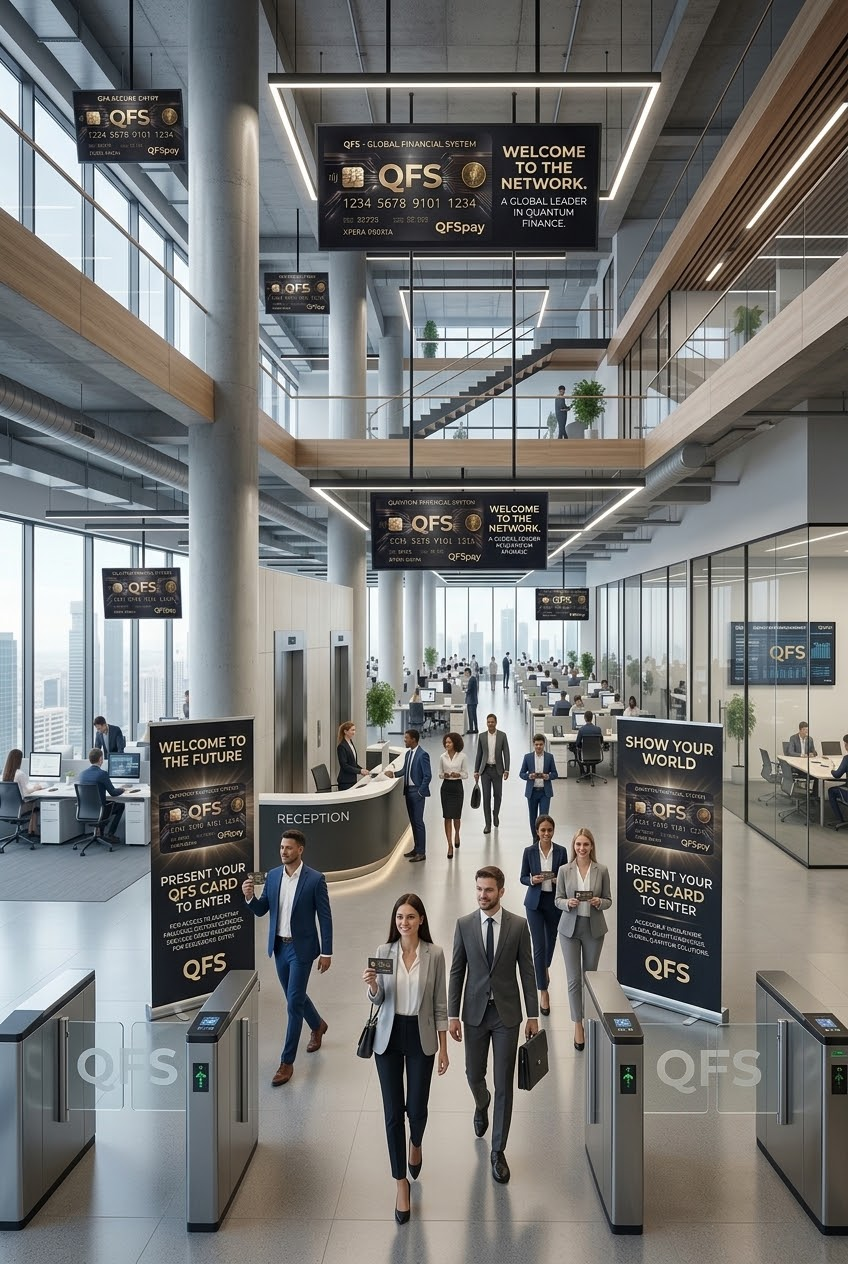
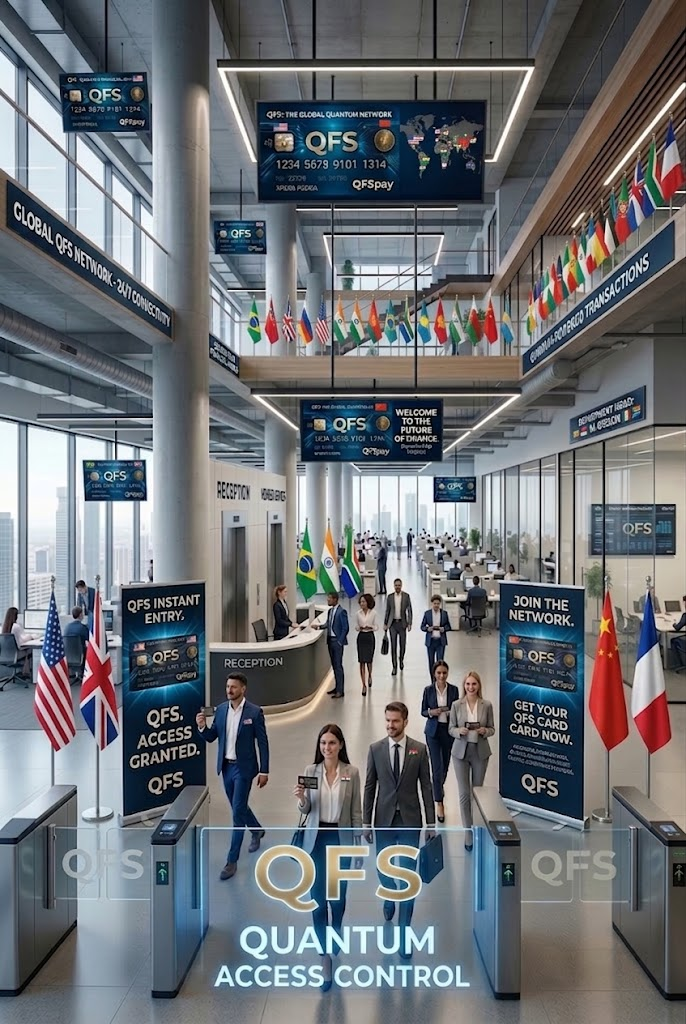
0c419a92-ae82-42db-931a-e7b1c20d3198

diff --git a/src/store/lang-store.ts b/src/store/lang-store.ts
@@ -164,14 +164,14 @@ const t: Record<string, Record<Lang, string>> = {
   "alliance.msg.body": { en: "The strategic integration of QFS with GCRM represents a paradigm shift in digital finance. This alliance unifies quantum-secured transactions with intelligent customer relationship management, creating an ecosystem where every interaction is protected by ledger technology and every transaction is enriched with real-time customer intelligence. The result: a financial infrastructure built for the next century.", es: "La integración estratégica de QFS con GCRM representa un cambio de paradigma en las finanzas digitales. Esta alianza unifica transacciones protegidas por tecnología cuántica con gestión inteligente de relaciones con clientes, creando un ecosistema donde cada interacción está protegida por tecnología ledger y cada transacción se enriquece con inteligencia de cliente en tiempo real. El resultado: una infraestructura financiera construida para el próximo siglo.", fr: "L'intégration stratégique de QFS avec GCRM représente un changement de paradigme dans la finance numérique. Cette alliance unifie les transactions sécurisées par la technologie quantique avec la gestion intelligente des relations clients, créant un écosystème où chaque interaction est protégée par la technologie ledger et chaque transaction est enrichie d'intelligence client en temps réel.", pt: "A integração estratégica do QFS com o GCRM representa uma mudança de paradigma nas finanças digitais. Esta aliança unifica transações protegidas por tecnologia quântica com gestão inteligente de relacionamento com clientes, criando um ecossistema onde cada interação é protegida por tecnologia ledger e cada transação é enriquecida com inteligência de cliente em tempo real.", de: "Die strategische Integration von QFS mit GCRM repräsentiert einen Paradigmenwechsel im digitalen Finanzwesen. Diese Allianz vereint quantengesicherte Transaktionen mit intelligentem Kundenbeziehungsmanagement und schafft ein Ökosystem, in dem jede Interaktion durch Ledger-Technologie geschützt ist.", zh: "QFS与GCRM的战略整合代表了数字金融的范式转变。这一联盟将量子安全的交易与智能客户关系管理统一起来，创建了一个每一个交互都受到账本技术保护的生态系统。", ar: "يمثل التكامل الاستراتيجي بين QFS و GCRM تحولاً جذرياً في التمويل الرقمي. هذه التحالف يوحد المعاملات المؤمنة بتقنية الكم مع إدارة العلاقات الذكية للعملاء، مما يخلق نظاماً بيئياً حيث كل تفاعل محمي بتقنية دفتر الأستاذ.", th: "การรวมตัวเชิงกลยุทธ์ของ QFS กับ GCRM หมายถึงการเปลี่ยนแปลงรูปแบบในการเงินดิจิทัล พันธมิตรนี้รวมการทำธุรกรรมที่ปลอดภัยด้วยเทคโนโลยีควอนตัมเข้ากับการจัดการความสัมพันธ์ลูกค้าอัจฉริยะ" },
   "alliance.msg.stat": { en: "177.64B", es: "177.64B", fr: "177.64B", pt: "177.64B", de: "177.64B", zh: "177.64B", ar: "177.64B", th: "177.64B" },
   "alliance.msg.stat.label": { en: "QFS Tokens Secured by Alliance", es: "Tokens QFS Asegurados por la Alianza", fr: "Tokens QFS Sécurisés par l'Alliance", pt: "Tokens QFS Garantidos pela Aliança", de: "QFS Tokens durch die Allianz Gesichert", zh: "联盟保障的QFS代币", ar: "رموز QFS المؤمنة بالتحالف", th: "โทเคน QFS ที่ได้รับการรับประกันจากพันธมิตร" },
-  "founder.label": { en: "Ecosystem Vision", es: "Visión del Ecosistema", fr: "Vision de l'Écosystème", pt: "Visão do Ecossistema", de: "Ökosystem-Vision", zh: "生态系统愿景", ar: "رؤية النظام البيئي", th: "วิสัยทัศน์ของระบบนิเวศ" },
-  "founder.title1": { en: "Financial Architecture", es: "Arquitectura Financiera", fr: "Architecture Financière", pt: "Arquitetura Financeira", de: "Finanzarchitektur", zh: "金融架构", ar: "البنية المالية", th: "สถาปัตยกรรมทางการเงิน" },
-  "founder.title2": { en: "For the New Free World", es: "Para el Nuevo Mundo Libre", fr: "Pour le Nouveau Monde Libre", pt: "Para o Novo Mundo Livre", de: "Für die Neue Freie Welt", zh: "为了新自由世界", ar: "للعالم الحر الجديد", th: "เพื่อโลกใหม่แห่งเสรีภาพ" },
-  "founder.p1": { en: "The Quantum Financial System (QFS) redefines global economic sovereignty, eliminating financial barriers and ensuring instant, transparent transactions.", es: "El Sistema Financiero Cuántico (QFS) redefine la soberanía económica global, eliminando barreras financieras y asegurando transacciones instantáneas y transparentes.", fr: "Le Système Financier Quantique (QFS) redéfinit la souveraineté économique mondiale, éliminant les barrières financières et garantissant des transactions instantanées et transparentes.", pt: "O Sistema Financeiro Quântico (QFS) redefine a soberania econômica global, eliminando barreiras financeiras e garantindo transações instantâneas e transparentes.", de: "Das Quanten-Finanzsystem (QFS) definiert die globale wirtschaftliche Souveränität neu, beseitigt Finanzbarrieren und sichert sofortige, transparente Transaktionen.", zh: "量子金融系统（QFS）重新定义了全球经济主权，消除金融壁垒，确保即时、透明的交易。", ar: "يعيد النظام المالي الكمي (QFS) تعريف السيادة الاقتصادية العالمية، ويقضي على الحواجز المالية ويضمن المعاملات الفورية والشفافة.", th: "ระบบการเงินควอนตัม (QFS) นิยามซ้ำอธิปไตยทางเศรษฐกิจของโลก โดยขจัดอุปสรรคทางการเงินและรับประกันธุรกรรมที่รวดเร็วและโปร่งใส" },
-  "founder.p2": { en: "Direct integration with global access cards, instant settlement, and real-time asset backing such as GCRM, among others.", es: "Integración directa con tarjetas de acceso global, liquidación instantánea y respaldo de activos en tiempo real como el GCRM, entre otros.", fr: "Intégration directe avec des cartes d'accès mondial, règlement instantané et support d'actifs en temps réel comme le GCRM, entre autres.", pt: "Integração direta com cartões de acesso global, liquidação instantânea e lastro de ativos em tempo real como o GCRM, entre outros.", de: "Direkte Integration mit globalen Zugangskarten, sofortiger Abrechnung und Echtzeit-Asset-Backup wie GCRM und andere.", zh: "与全球访问卡直接集成，即时结算，以及GCRM等实时资产支持。", ar: "التكامل المباشر مع بطاقات الوصول العالمي، التسوية الفورية، والضمان بالأصول في الوقت الفعلي مثل GCRM، من بين آخرين.", th: "การรวมตัวโดยตรงกับบัตรเข้าถึงระดับโลก การชำระเงินทันที และการสนับสนุนสินทรัพย์แบบเรียลไทม์เช่น GCRM และอื่นๆ" },
-  "founder.p3": { en: "Building the definitive infrastructure for economic freedom. Towards an era of global financial inclusion, absolute security, and personal autonomy.", es: "Construyendo la infraestructura definitiva para la libertad económica. Hacia una era de inclusión financiera global, seguridad absoluta y autonomía personal.", fr: "Construire l'infrastructure définitive pour la liberté économique. Vers une ère d'inclusion financière mondiale, de sécurité absolue et d'autonomie personnelle.", pt: "Construindo a infraestrutura definitiva para a liberdade econômica. Em direção a uma era de inclusão financeira global, segurança absoluta e autonomia pessoal.", de: "Aufbau der definitiven Infrastruktur für wirtschaftliche Freiheit. Hin zu einer Ära globaler finanzieller Inklusion, absoluter Sicherheit und persönlicher Autonomie.", zh: "构建经济自由的终极基础设施。迈向全球金融包容、绝对安全和个人自主的时代。", ar: "بناء البنية التحتية النهائية للحرية الاقتصادية. نحو عصر من الشمول المالي العالمي والأمان المطلق والاستقلالية الشخصية.", th: "สร้างโครงสร้างพื้นฐานที่ defiantive สำหรับเสรีภาพทางเศรษฐกิจ สู่ยุคแห่งการครอบคลุมทางการเงินระดับโลก ความปลอดภัยสูงสุด และอิสระส่วนบุคคล" },
-  "founder.name": { en: "QFS Development Council", es: "Consejo de Desarrollo QFS", fr: "Conseil de Développement QFS", pt: "Conselho de Desenvolvimento QFS", de: "QFS Entwicklungsrat", zh: "QFS发展委员会", ar: "مجلس تطوير QFS", th: "สภาพัฒนา QFS" },
-  "founder.role": { en: "Leadership & Global Governance", es: "Liderazgo y Gobernanza Global", fr: "Leadership et Gouvernance Mondiale", pt: "Liderança e Governança Global", de: "Führung und Globale Governance", zh: "领导力与全球治理", ar: "القيادة والحوكمة العالمية", th: "ความเป็นผู้นำและธรรมาภิบาลระดับโลก" },
+  "founder.label": { en: "Purpose & Vision", es: "Propósito y Visión", fr: "Objectif et Vision", pt: "Propósito e Visão", de: "Zweck und Vision", zh: "使命与愿景", ar: "الغرض والرؤية", th: "วัตถุประสงค์และวิสัยทัศน์" },
+  "founder.title1": { en: "THE ECOSYSTEM OF THE", es: "EL ECOSISTEMA DEL", fr: "L'ÉCOSYSTÈME DU", pt: "O ECOSSISTEMA DO", de: "DAS ÖKOSYSTEM DES", zh: "新自由世界的", ar: "نظام البيئي لل", th: "ระบบนิเวศแห่ง" },
+  "founder.title2": { en: "NEW FREE WORLD", es: "NUEVO MUNDO LIBRE", fr: "NOUVEAU MONDE LIBRE", pt: "NOVO MUNDO LIVRE", de: "NEUE FREIE WELT", zh: "新自由世界", ar: "العالم الحر الجديد", th: "โลกใหม่แห่งเสรีภาพ" },
+  "founder.p1": { en: "The Quantum Financial System (QFS) guarantees global economic sovereignty, eliminating financial barriers and ensuring instant, transparent transactions.", es: "El Sistema Financiero Cuántico (QFS) garantiza la soberanía económica global, eliminando barreras financieras y asegurando transacciones instantáneas y transparentes.", fr: "Le Système Financier Quantique (QFS) redéfinit la souveraineté économique mondiale, éliminant les barrières financières et garantissant des transactions instantanées et transparentes.", pt: "O Sistema Financeiro Quântico (QFS) redefine a soberania econômica global, eliminando barreiras financeiras e garantindo transações instantâneas e transparentes.", de: "Das Quanten-Finanzsystem (QFS) definiert die globale wirtschaftliche Souveränität neu, beseitigt Finanzbarrieren und sichert sofortige, transparente Transaktionen.", zh: "量子金融系统（QFS）重新定义了全球经济主权，消除金融壁垒，确保即时、透明的交易。", ar: "يعيد النظام المالي الكمي (QFS) تعريف السيادة الاقتصادية العالمية، ويقضي على الحواجز المالية ويضمن المعاملات الفورية والشفافة.", th: "ระบบการเงินควอนตัม (QFS) นิยามซ้ำอธิปไตยทางเศรษฐกิจของโลก โดยขจัดอุปสรรคทางการเงินและรับประกันธุรกรรมที่รวดเร็วและโปร่งใส" },
+  "founder.p2": { en: "Designed to back financial freedom through immutable technology and advanced asset protection on a decentralized network.", es: "Diseñado para respaldar la libertad financiera mediante tecnología inalterable y protección avanzada de activos en una red descentralizada.", fr: "Conçu pour soutenir la liberté financière grâce à une technologie immuable et une protection avancée des actifs sur un réseau décentralisé.", pt: "Projetado para respaldar a liberdade financeira por meio de tecnologia imutável e proteção avançada de ativos em uma rede descentralizada.", de: "Entwickelt, um die finanzielle Freiheit durch unveränderliche Technologie und fortschrittlichen Asset-Schutz in einem dezentralen Netzwerk zu unterstützen.", zh: "通过不可篡改的技术和去中心化网络上的高级资产保护，旨在支撑金融自由。", ar: "مصمم لدعم الحرية المالية من خلال تقنية غير قابلة للتغيير وحماية متقدمة للأصول على شبكة لامركزية.", th: "ออกแบบมาเพื่อสนับสนุนเสรีภาพทางการเงินผ่านเทคโนโลยีที่ไม่เปลี่ยนแปลงและการป้องกันสินทรัพย์ขั้นสูงบนเครือข่ายแบบกระจายอำนาจ" },
+  "founder.p3": { en: "Towards an era of global financial inclusion, absolute security, and personal autonomy.", es: "Hacia una era de inclusión financiera global, seguridad absoluta y autonomía personal.", fr: "Vers une ère d'inclusion financière mondiale, de sécurité absolue et d'autonomie personnelle.", pt: "Em direção a uma era de inclusão financeira global, segurança absoluta e autonomia pessoal.", de: "Hin zu einer Ära globaler finanzieller Inklusion, absoluter Sicherheit und persönlicher Autonomie.", zh: "迈向全球金融包容、绝对安全和个人自主的时代。", ar: "نحو عصر من الشمول المالي العالمي والأمان المطلق والاستقلالية الشخصية.", th: "สู่ยุคแห่งการครอบคลุมทางการเงินระดับโลก ความปลอดภัยสูงสุด และอิสระส่วนบุคคล" },
+  "founder.name": { en: "QFS Ecosystem", es: "QFS Ecosystem", fr: "QFS Ecosystem", pt: "QFS Ecosystem", de: "QFS Ecosystem", zh: "QFS Ecosystem", ar: "QFS Ecosystem", th: "QFS Ecosystem" },
+  "founder.role": { en: "Sovereign Financial Network", es: "Red Financiera Soberana", fr: "Réseau Financier Souverain", pt: "Rede Financeira Soberana", de: "Souveränes Finanznetzwerk", zh: "主权金融网络", ar: "شبكة مالية سيادية", th: "เครือข่ายการเงินอธิปไตย" },
   "founder2.title1": { en: "Infrastructure", es: "Infraestructura", fr: "Infrastructure", pt: "Infraestrutura", de: "Infrastruktur", zh: "基础设施", ar: "البنية التحتية", th: "โครงสร้างพื้นฐาน" },
   "founder2.title2": { en: "Decentralized and Secure", es: "Descentralizado y Seguro", fr: "Décentralisé et Sécurisé", pt: "Descentralizado e Seguro", de: "Dezentral und Sicher", zh: "去中心化且安全", ar: "لامركزي وآمن", th: "กระจายอำนาจและปลอดภัย" },
   "founder2.p1": { en: "Corporate and personal access through QFS credentials with advanced military-grade encryption.", es: "Acceso corporativo y personal mediante credenciales QFS con encriptación avanzada de grado militar.", fr: "Accès corporatif et personnel via des identifiants QFS avec un chiffrement avancé de niveau militaire.", pt: "Acesso corporativo e pessoal por meio de credenciais QFS com criptografia avançada de nível militar.", de: "Unternehmens- und persönlicher Zugang durch QFS-Zugangsdaten mit fortschrittlicher Verschlüsselung auf Militärniveau.", zh: "通过QFS凭证实现企业和个人访问，采用先进的军事级加密。", ar: "وصول مؤسسي وشخصي من خلال بيانات الاعتماد QFS مع تشفير متقدم بمستوى عسكري.", th: "การเข้าถึงระดับองค์กรและส่วนบุคคลผ่านข้อมูลประจำตัว QFS พร้อมการเข้ารหัสขั้นสูงระดับทางทหาร" },
